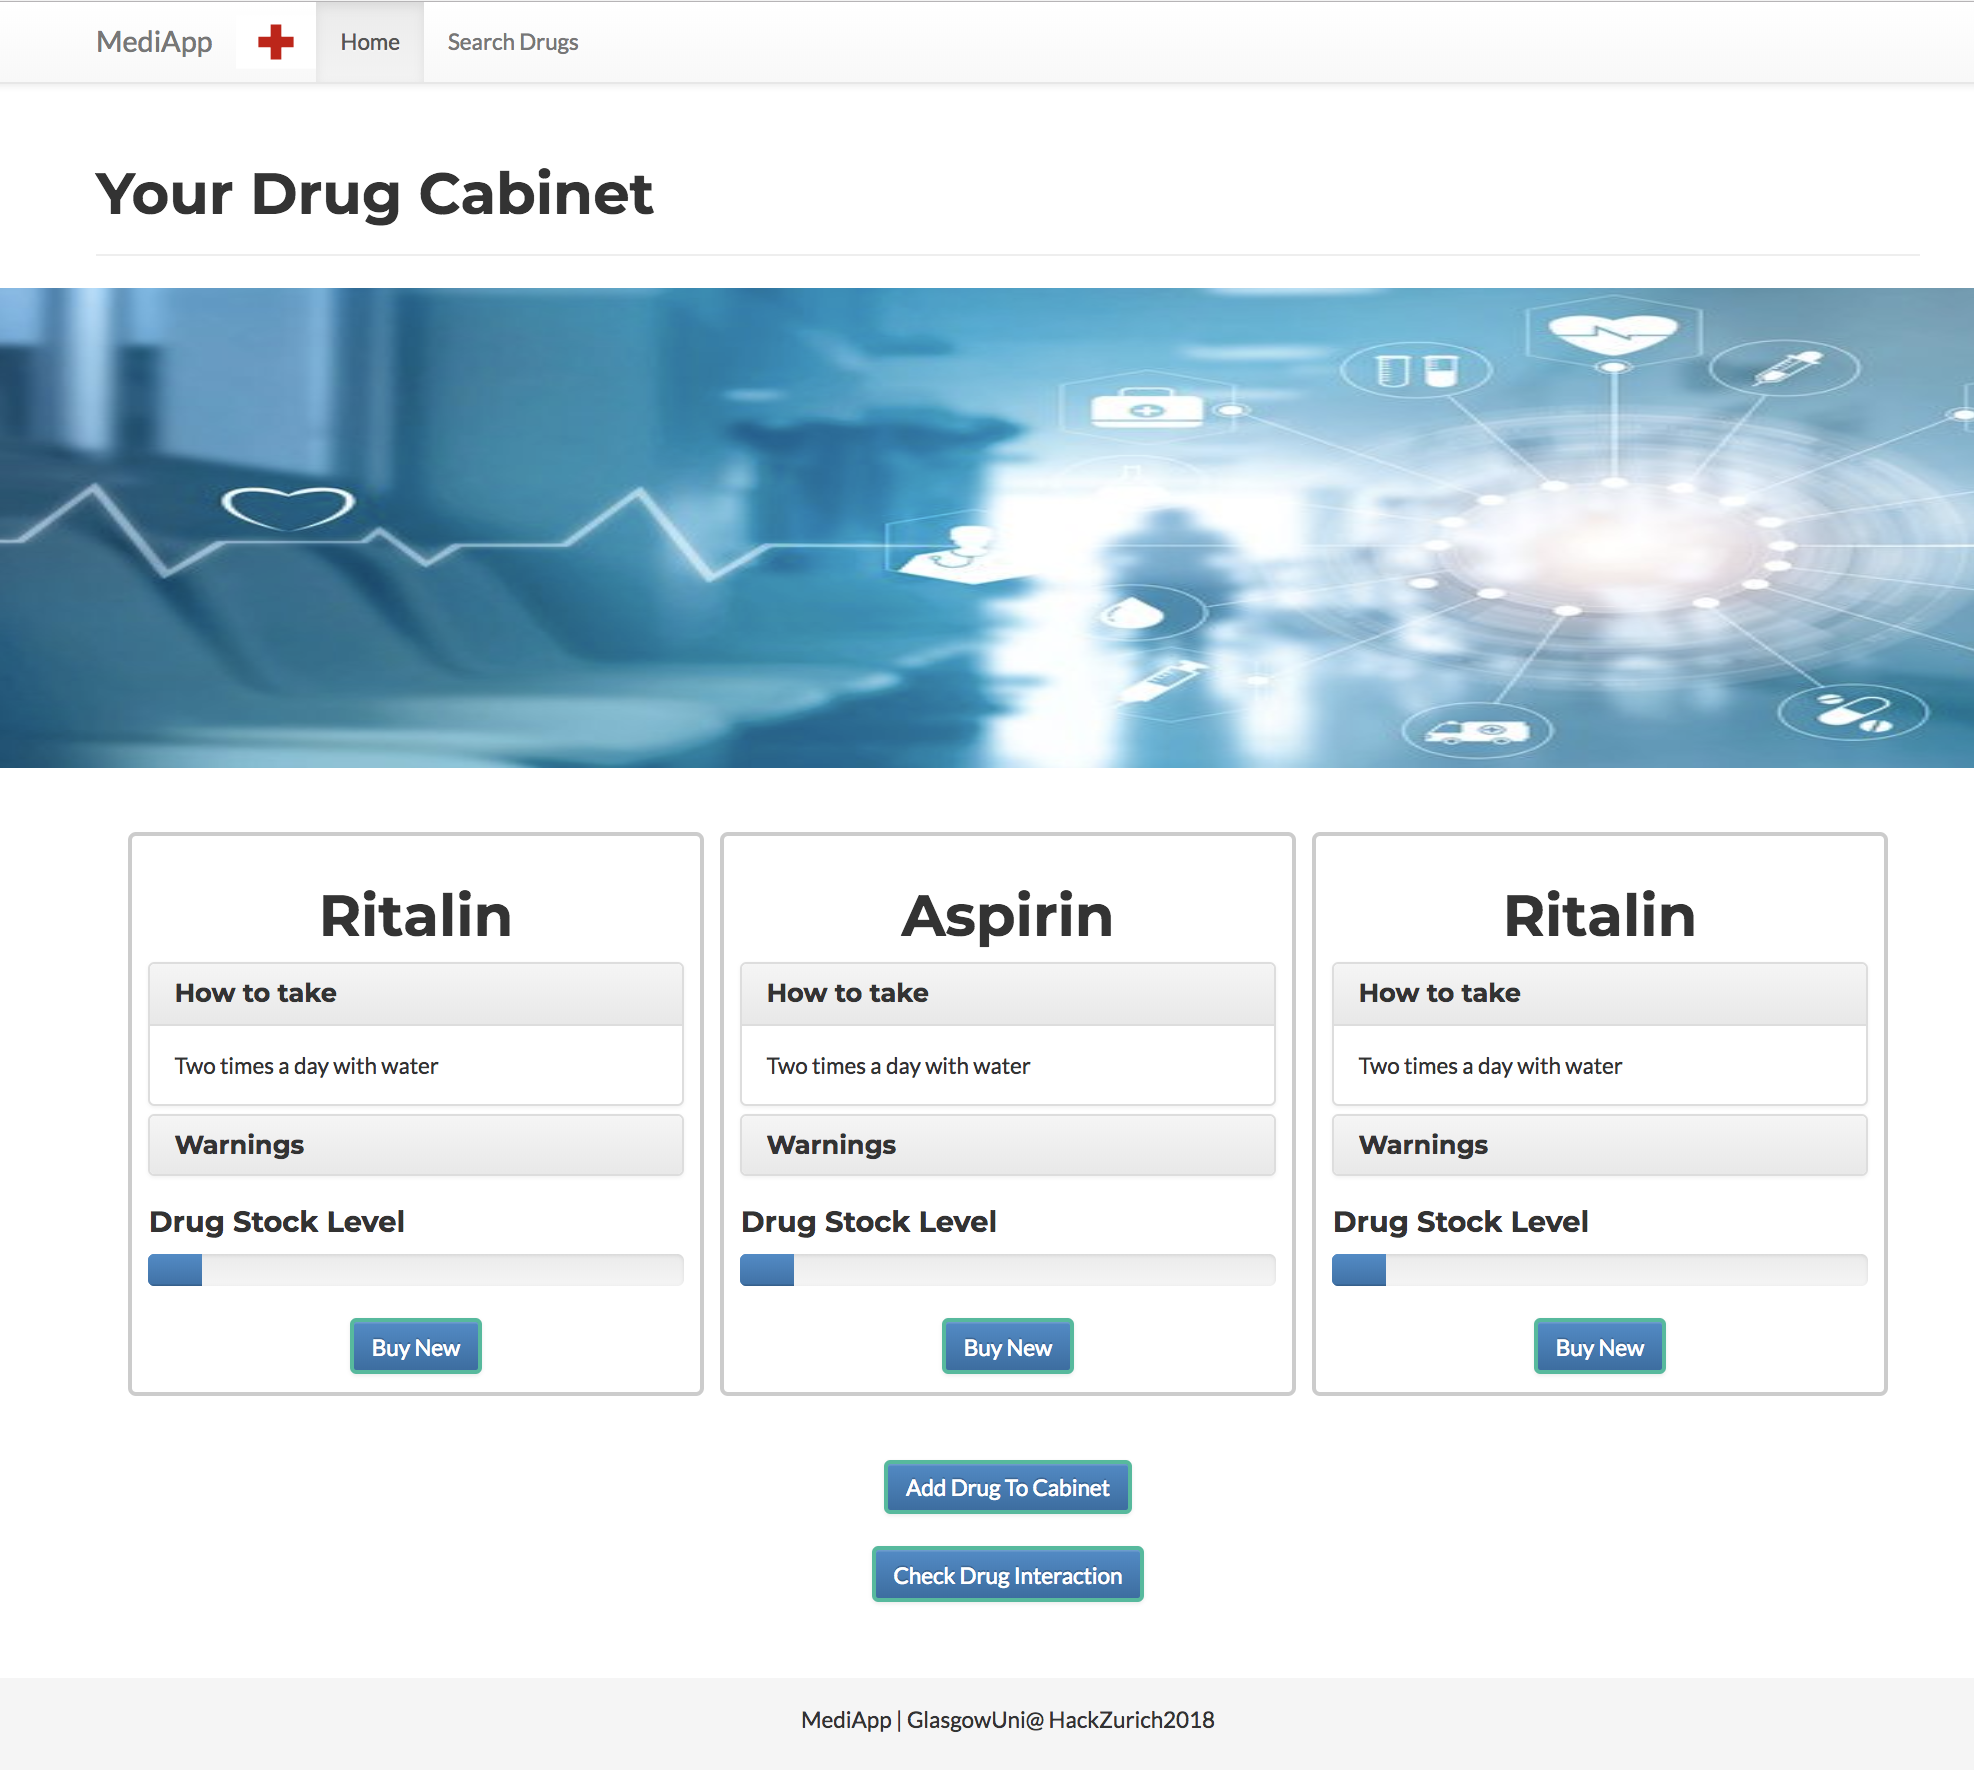
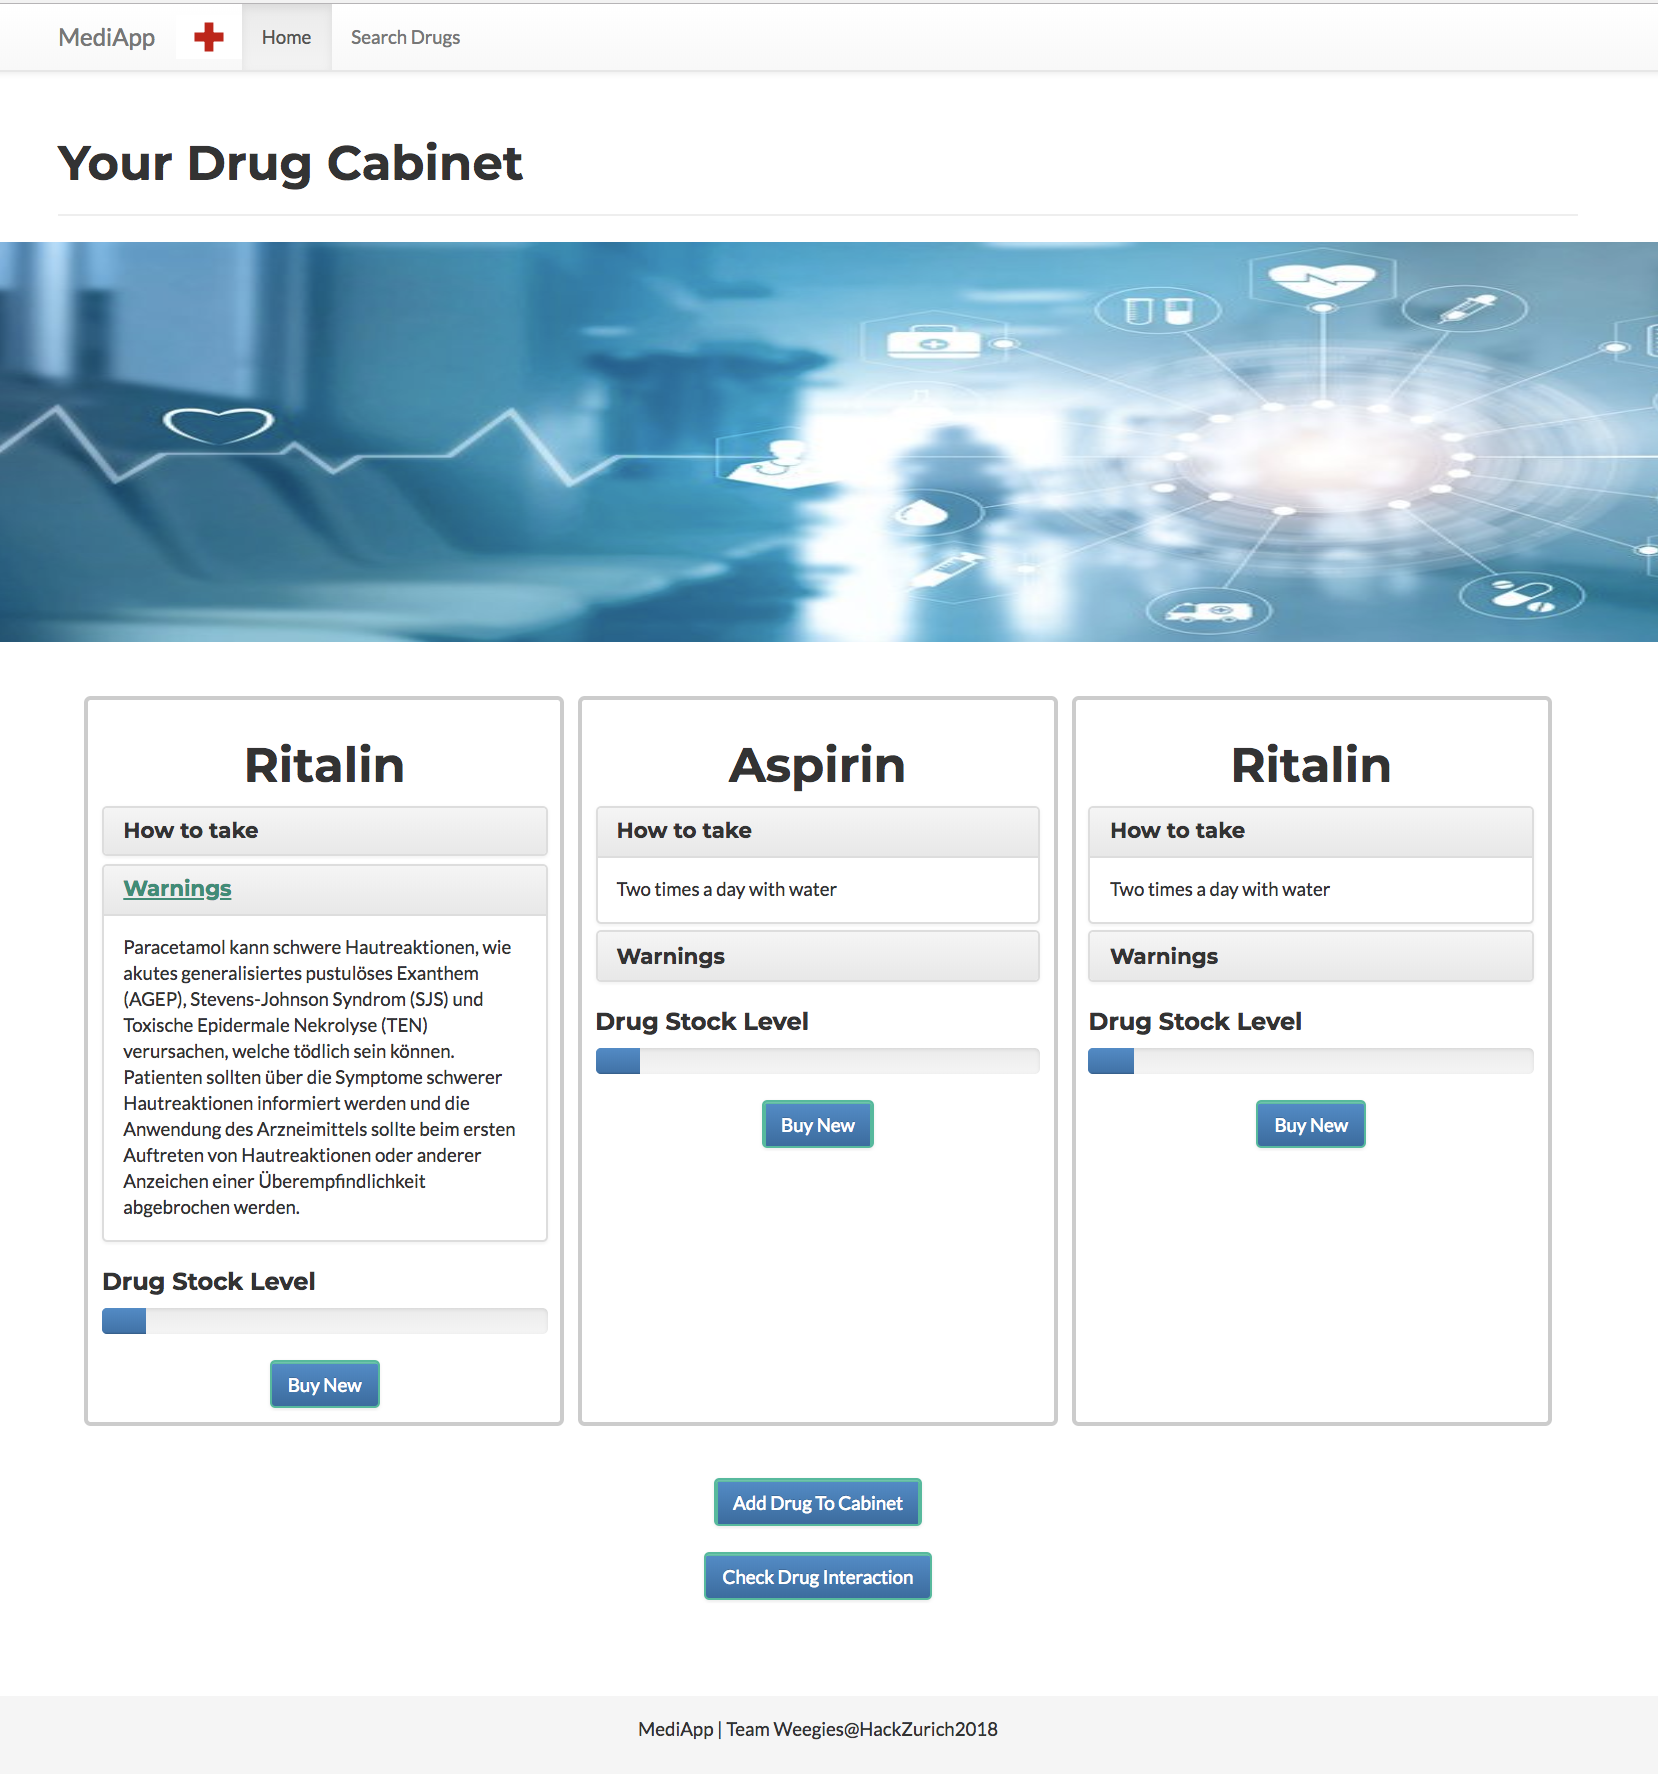
add new screenshots

Changed region(s): [[0.0, 0.0621, 1.0, 0.9322], [0.0308, 0.0, 0.3076, 0.0311], [0.3999, 0.9633, 0.6152, 0.9944]]

diff --git a/templates/layouts/main.html b/templates/layouts/main.html
@@ -91,7 +91,7 @@
 
   <footer id="footer" class="page-footer font-small blue">
     <div class="container text-center">
-      <p>MediApp | GlasgowUni@ HackZurich2018</p>
+      <p>MediApp | Team Weegies@HackZurich2018</p>
       {% block footer %}{% endblock %}
     </div>
   </footer> 

diff --git a/README.md b/README.md
@@ -3,4 +3,8 @@
 ## 30 Second Pitch
 For forgetful and busy healthcare consumers who want to keep track of their drugs stock and their compatibility, MediApp is a mobile friendly web application that unlike simply having to remember, will keep record of your drug cabinet virtually with a simple interface anywhere and at all times.
 
+### Your Virtual Medical Cabinet
 ![Home Screen](screenshots/main.png)
+
+### Add New Drugs to Your Stock
+![Search](screenshots/search.png)
